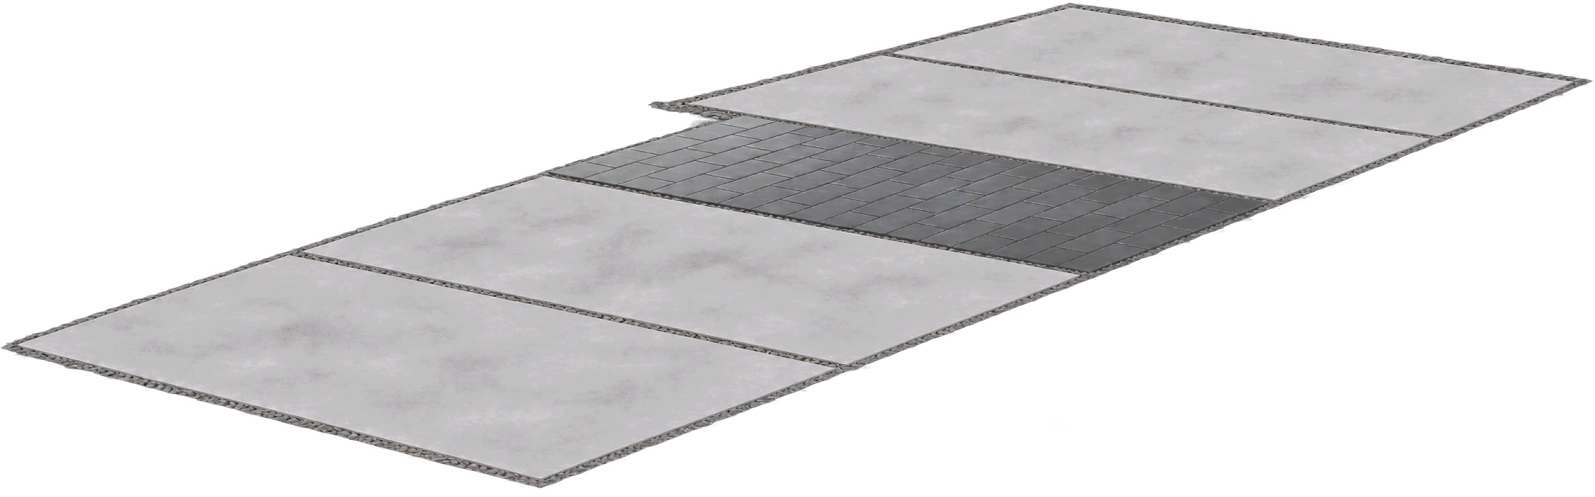
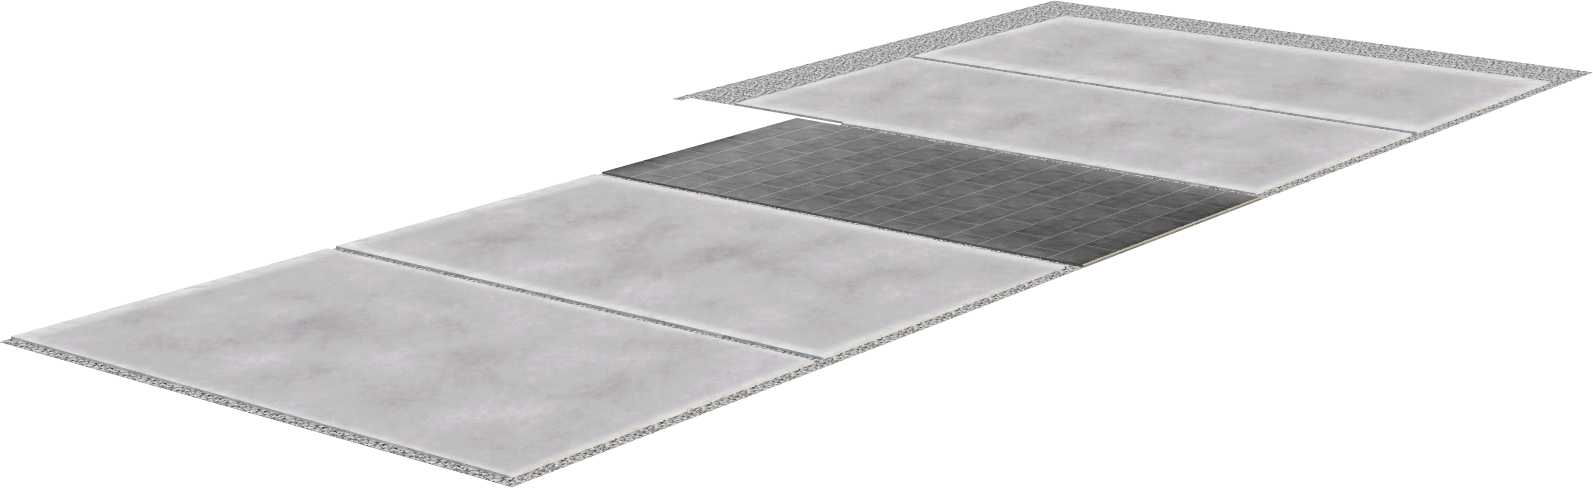
sada

diff --git a/js/hex.js b/js/hex.js
@@ -3316,7 +3316,7 @@ hexReady(function(){
       'house.webp':{originalWidth:3000,originalHeight:1854,x:777,y:508,width:1440,height:491},
       'pave01.webp':{originalWidth:3000,originalHeight:1854,x:777,y:727,width:1438,height:212},
       'pave02.webp':{originalWidth:3000,originalHeight:1854,x:283,y:832,width:1663,height:382},
-      'pave03.webp':{originalWidth:3000,originalHeight:1854,x:1160,y:863,width:1595,height:497},
+      'pave03.webp':{originalWidth:3000,originalHeight:1854,x:1160,y:868,width:1593,height:488},
       'plinth.webp':{originalWidth:3000,originalHeight:1854,x:129,y:706,width:2845,height:903},
       'wall01.webp':{originalWidth:3000,originalHeight:1854,x:273,y:694,width:2483,height:273},
       'wall02.webp':{originalWidth:3000,originalHeight:1854,x:1323,y:768,width:684,height:323},
